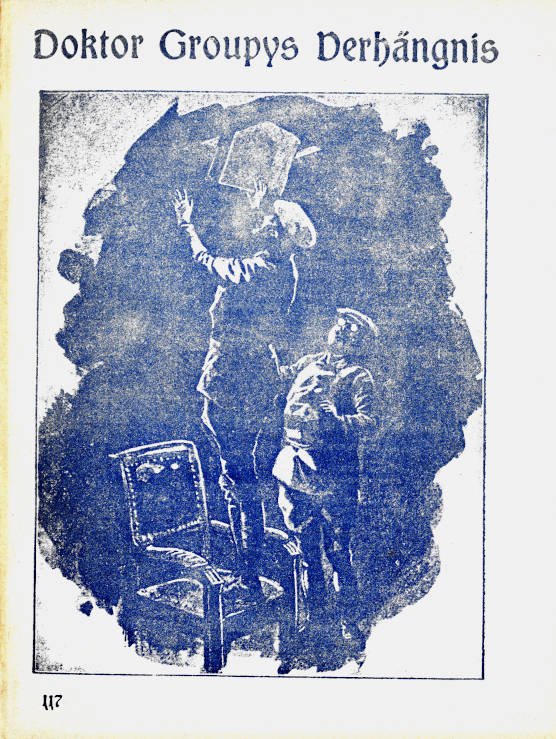
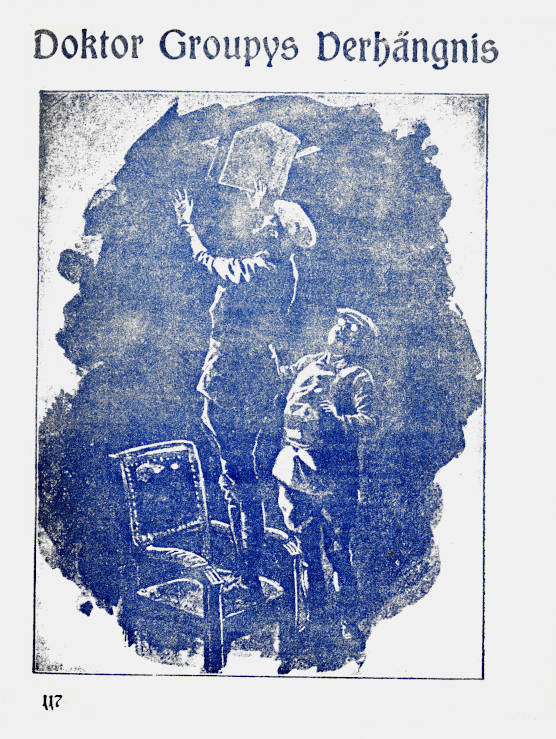
Rechtschreibfehler korrigert, Cover verbessert

Changed region(s): [[0.0, 0.0, 0.3975, 1.0], [0.4892, 0.9648, 1.0, 1.0], [0.4281, 0.9959, 0.4586, 1.0]]

diff --git a/Harald Harst/117_Doktor Groupys Verhängnis/02_Um Ehre und Weib.md b/Harald Harst/117_Doktor Groupys Verhängnis/02_Um Ehre und Weib.md
@@ -34,7 +34,7 @@ Der Diener springt herab, reißt die Tür auf …
 Drei Herren steigen aus …
 
 Der eine der Typ des vornehmen Engländers, blondbärtig,
-bärtig überschlank …
+überschlank …
 
 Der zweite etwas kleiner, straff in der Haltung, bartlos
 das Gesicht, eine kühne, messerscharfe Nase, merkwürdig graue
@@ -99,7 +99,7 @@ Und Walltour sagt zu Lady Effingham:
 »Heute mittag überraschte mich mein lieber alter Harald
 durch seinen Besuch … Das war eine Freude. — Und
 nun bringe ich Ihnen diesen prächtigen Menschen und seinen
-ebenso prächtigen Freund Schraut, Mylady. …! Zwei
+ebenso prächtigen Freund Schraut, Mylady …! Zwei
 Künstler — Künstler auf einem besonderen Gebiet …«
 
 Und zu den Anwesenden gewandt:
@@ -117,7 +117,7 @@ Lady Doris hatte sich längst gefaßt …
 Sie hieß uns beide nun willkommen, in allem die Dame
 von Welt, in allem die Aristokratin …
 
-Und doch hatte ihr Vater Niels Randerfield seine Glückslaufbabn
+Und doch hatte ihr Vater Niels Randerfield seine Glückslaufbahn
 als Goldgräber begonnen … —
 
 Zehn Minuten später — inzwischen waren noch einige
@@ -125,7 +125,7 @@ zwanzig neue Gäste erschienen — standen Harald und ich im
 Musiksalon und ließen eine übermoderne Opernouvertüre
 unsere Ohren malträtieren …
 
-Der Künstler am Flügel war ein Rasse, der Komponist
+Der Künstler am Flügel war ein Russe, der Komponist
 selbst …
 
 <@pagebreak/>
@@ -675,7 +675,7 @@ Bündel zu mir gekommen …
 
 Lag irgendwo, wo’s nach Benzin stank …
 
-Konnte nichts sehen. Nur Hören, riechen und fühlen …
+Konnte nichts sehen. Nur hören, riechen und fühlen …
 
 Roch Benzin, hörte einen Automotor leer laufen, fühlte
 mich emporgehoben, in eine Polsterecke gedrückt …
@@ -754,7 +754,7 @@ flüsterte: »Halt’s Maul, Tom! Rudere lieber!«
 
 Mithin stimmte es: Tom und Charly, die Helfershelfer
 Lord Effinghams, waren unsere Begleiter! Unsere Wächter!
-Und der Lord hatte uns Überfallen und niederschlagen lassen!
+Und der Lord hatte uns überfallen und niederschlagen lassen!
 
 Weshalb — — weshalb?
 
@@ -883,7 +883,7 @@ Englisch:
 »Ich werde Ihnen beiden die Knebel abnehmen. Ich
 habe mich davon überzeugt, daß wir drei zurzeit die einzigen
 lebenden Menschen hier auf diesem Inselchen sind. Sollten
-Sie aber um Hilfe rufen, so — Schlage ich auch Ihnen die
+Sie aber um Hilfe rufen, so — schlage ich auch Ihnen die
 Schädel ein.«
 
 Der Indianer sprach das letzte mit so vollkommener
@@ -921,7 +921,7 @@ Palast eines Lords …«
 Die dunkle Gestalt schwieg eine Weile …
 
 »Wir befinden uns in der gleichen Lage,« meinte Paracolea
-dann. »Ich werde Ihren auch die Fesseln abnehmen.
+dann. »Ich werde Ihnen auch die Fesseln abnehmen.
 Dies ist eine Nacht, wie ich viele erlebt habe, als ich noch
 drüben in Amerika, meiner Heimat, als Jäger die Sonora
 durchstreifte und das Goldgräberlager mit Fleisch versorgte.«
@@ -932,7 +932,7 @@ Dann stolzer — lauter:
 
 »Ich bin Paracolea, ein Nachkomme jenes Seminolenhäuptlings
 Oceola, den der Schriftsteller Cooper in dem
-Roman »Oceola, die untergehende Sonne der Seminolen«
+Roman »Oceola, die untergehende Sonne der Seminolen<@refnote 2/>«
 verewigt hat …«
 
 Er zerschnitt unsere Stricke …
@@ -974,7 +974,7 @@ Das trockene Holz erzeugte eine ungeheure Glut, die durch
 die offene Ofentür in breiter Bahn in die Stube drang.
 
 Vor dem Ofen lag ein Fellteppich. Paracolea, der einen
-Sportanzug trug, diesen Sitz und Stoff durch das Unwetter
+Sportanzug trug, dessen Sitz und Stoff durch das Unwetter
 genau so gelitten hatten wie unsere Gesellschaftsanzüge, ließ
 sich jetzt mit untergeschlagenen Beinen gleichfalls vor dem
 Ofen nieder, legte die Arme auf die Knie und starrte unverwandt
@@ -1022,7 +1022,7 @@ Der Seminole schwieg und starrte in die Glut.
 Wir beide verließen das Häuschen.
 
 Draußen atmete ich erleichtert auf, zumal der Regenguß
-vorüber war und ein frischer, angenehmer Wind, die Nachtklänge
+vorüber war und ein frischer, angenehmer Wind, die Nachklänge
 des Sturmes, uns umwehte.
 
 Dunkle Wolkenmassen flogen noch über das nächtliche
@@ -1036,7 +1036,7 @@ hinabeilten …
 
 »Das hängt davon ab, wer dort naht …«
 
-Und er zeigte geradeaus aus die finstere Fläche der Harwich-Bucht,
+Und er zeigte geradeaus auf die finstere Fläche der Harwich-Bucht,
 wo die Lichter eines kleinen Fahrzeugs blitzten
 und rasch näherkamen.
 
@@ -1086,7 +1086,7 @@ waren kunstlose Verbände aus Zeugfetzen geschlungen …
 »Sie leben, sind nur bewußtlos … — Ah — es sind Ausländer,
 beide … Da — dieser Schädelbau und dieses
 brandrote Haar sind nur in Irland anzutreffen, und die
-Hirndecke eines Iren konsultiert an Festigkeit mit der eines
+Hirndecke eines Iren konkurriert an Festigkeit mit der eines
 Negers. — Der Seminole glaubt, die beiden erschlagen zu
 haben, hat aber trotzdem, weil noch Leben in ihnen war die
 Verletzungen verbunden. Ich wußte, daß dieser Paracolea
@@ -1193,7 +1193,7 @@ sich in einen Stuhl und sagte ironisch:
 mich mit Ellen Gybourg traf. Sie waren’s, der in seiner
 übergroßen Liebe für Doris, meine Gattin« — und da
 änderte sich sein Ton, wurde weich und wehmütig — »sich
-von ihr verleiten hießen, Ellen … zu ermorden, weil Doris
+von ihr verleiten ließen, Ellen … zu ermorden, weil Doris
 in blinder Eifersucht glaubte, daß intime Beziehungen zwischen
 mir und jener Frau beständen! — Paracolea, Sie
 ahnen nicht, *was* Sie mir angetan haben! Nie hätten Sie
@@ -1202,7 +1202,7 @@ einst nahegestanden, heimlich zusammenkam, und dies nur
 <@pagebreak/>
 deshalb, um die letzten Beweise einer wilden Vergangenheit
 vernichten zu können, um von Ellen die Herausgabe
-meine Bildes zu fordern, das ich ihr einst mit einer Widmung
+meines Bildes zu fordern, das ich ihr einst mit einer Widmung
 geschenkt hatte! Nur deshalb wagte ich diese Zusammenkünfte,
 suchte den blinden Haß dieses Weibes, das
 sich mir einst geradezu aufgedrängt und das dann nicht hatte
@@ -1215,7 +1215,7 @@ das, was zwischen ihr und mir einst gewesen …!! Ein
 unausgeglichener Charakter, eine Frau, die allzu gern Lady
 Effingham werden wollte, die völlig unter dem Einfluß ihrer
 intriganten Mutter stand, eines Weibes, halb Abenteurerin,
-halb Horcherin, halb Dirne …!«
+halb Spielerin, halb Dirne …!«
 
 Paracoleas dunkle Augen hingen wie gebannt an des
 Lords nunmehr von Bart und Maske befreiten Gesicht …
@@ -1390,7 +1390,7 @@ dreißig Jahre früher, — da wäre die Geschichte Ihnen wohl
 
 Harst stieß lachend die Tür des Häuschens auf …
 
-Und schmunzelnd betrat ich hinter im das hell erleuchtete
+Und schmunzelnd betrat ich hinter ihm das hell erleuchtete
 Stübchen, während old Tobby neben mir brummte: »Da
 gibt’s nichts zu lachen! Vor dreißig Jahren konnt’ ich einen
 Ochsen mit der Faust niederschlagen — auch zwei, wenn
@@ -1404,9 +1404,9 @@ hervor erschienen Lady Doris Effingham und zwei
 Männer in Chauffeurtracht, alle drei aber mit langen
 Gummimänteln, die vor Nässe trieften …
 
-Lady Doris wär’s, die uns angerufen hatte …
+Lady Doris war’s, die uns angerufen hatte …
 
-»Zwingen Sie nicht nicht, Mister Harst, Gewalt zu gebrauchen!!«
+»Zwingen Sie mich nicht, Mister Harst, Gewalt zu gebrauchen!!«
 
 Und sie deutete auf ihre beiden Begleiter …
 
@@ -1472,7 +1472,7 @@ wie er, von einem Dienstmann mit einer großen Modellpuppe
 gefolgt, das Haus Nr. 15 betrat.
 
 Daß Gybourg und ich mit äußerster Ungeduld der entscheidenden
-Stunde entgegensahen, wird Jeder begreifen.
+Stunde entgegensahen, wird jeder begreifen.
 Endlich — endlich dann … fünf Minuten vor elf …
 
 Da fuhr auch schon vor Nr. 15 ein elegantes Auto vor,
@@ -1553,7 +1553,7 @@ war — —
 Ich habe nur noch hinzuzufügen, daß Paracolea jetzt
 Schloßverwalter bei Lord Effingham ist und daß Lady
 <@pagebreak/>
-Doris und letztens zur Taufe des Stammhalters eingeladen
+Doris uns letztens zur Taufe des Stammhalters eingeladen
 hat. Wir werden dann fraglos ein paar vergnügte Tage in
 England verleben. —
 

diff --git a/Harald Harst/117_Doktor Groupys Verhängnis/01_Doktor Groupys Verhängnis.md b/Harald Harst/117_Doktor Groupys Verhängnis/01_Doktor Groupys Verhängnis.md
@@ -73,7 +73,7 @@ ein Zettel gebunden …
 Wir lasen den Zettel — eine energische, schmucklose Handschrift:
 
 > »Mister Harst, falls Sie versprechen, mich nicht etwa
-der Polizei auszuliefern, will ich Ahnen meine traurige
+der Polizei auszuliefern, will ich Ihnen meine traurige
 Geschichte selbst auf die Gefahr hin, daß Sie mir nicht
 glauben, erzählen, und Sie dann vielleicht bitten, mir zu
 helfen. — Sollten Sie diese Zusicherung geben wollen, so
@@ -89,7 +89,7 @@ Groupy beim Hineinklettern.
 
 Groupy stand vor uns …
 
-Er war legt nicht mehr verkleidet …
+Er war jetzt nicht mehr verkleidet …
 
 Ein schlanker Mann mit bartlosem, klugem Gesicht und
 lebhaften Augen, etwa fünfundvierzig Jahre alt …
@@ -177,7 +177,7 @@ nur ich!!
 Und da — da floh ich, schlug den Detektivinspektor Colley
 nieder und rannte auf die Straße, entwischte …«
 
-Er keuchte, zitierte …
+Er keuchte, zitterte …
 
 Hob nun den Blick …
 
@@ -481,7 +481,7 @@ bildete den Anlaß zu jenen Eifersuchtsszenen. Ich glaubte
 Ellen nicht, daß sie den Menschen nicht näher kenne. Zwar
 versöhnten wir uns, doch die steten Zweifel an ihrer Aufrichtigkeit
 beschworen stets aufs neue häßliche Auftritte
-herauf. — Ich zertrümmerte Ellens Rad und Verbot ihr, das
+herauf. — Ich zertrümmerte Ellens Rad und verbot ihr, das
 Haus ohne mich zu verlassen … Und dann — dann versöhnten
 wir uns wiederum, bis mein nie zur Ruhe kommendes
 Mißtrauen mich verleitete, Ellens Sachen aus ihrer
@@ -526,7 +526,7 @@ Photographen ausradiert und auch von der über dem Stempel
 stehenden, mit Tinte geschriebenen Widmung war nur
 noch übriggeblieben ein
 
-> \i und ein a.
+> i und ein a.
 
 Harald legte Briefumschlag und Bild auf den Tisch …
 fragte:
@@ -594,7 +594,7 @@ Sie speisten auf ihrem Zimmer zu Abend, und dann,
 als der alte, behäbige Kellner das Geschirr wieder abgeräumt
 hatte, rief der eine der Holländer den Diener herein.
 
-»So«,« sagte Harald zu Doktor Gybourg, »so, nun sind
+»So,« sagte Harald zu Doktor Gybourg, »so, nun sind
 wir unter uns, Doktor. Und nun zeigen Sie mir mal von
 hier aus die Anordnung der Räume Ihrer früheren Wohnung.
 — Schalte das Licht aus, mein Alter … Wir wollen
@@ -824,7 +824,7 @@ Das Fenster flog auf …
 
 Harst schritt vorwärts …
 
-Da rief der Alte und entgegen:
+Da rief der Alte uns entgegen:
 
 »He — es ist verboten, die Insel zu betreten!«
 
@@ -872,7 +872,7 @@ Harald mich vor.
 »Ja — dann können wir ja nun gehen,« meinte Tobby
 bedächtig. »Warten Sie, ich komme …«
 
-<h2>4, Kapitel.</h2>
+<h2>4. Kapitel.</h2>
 <h3>Verse am Fenster.</h3>
 
 Er kam, hatte einen Ölhut über den Schädel gezogen,
@@ -915,7 +915,7 @@ lehnte sie an die schroffe Felswand und stieg empor …
 Acht Meter über dem Boden bildete die Steinwand
 eine schmale Terrasse, die allmählich, ein gangbarer Pfad,
 sich höherzog bis zu einem durch die Krone einer prächtigen
-Eiche verdecken Felsloche …
+Eiche verdeckten Felsloche …
 
 »So,« sagte Tobby, »dies ist nun der Eingang zu der
 Höhlenwohnung, Mister Gybourg … Während des Krieges
@@ -945,7 +945,7 @@ und — — einer Sende- und Empfangsstation für Funkentelegraphie!
 —
 
 Wollte ich diese Atelierwohnung im einzelnen beschreiben,
-dann müßte ist dazu drei Seiten Manuskript verwenden,
+dann müßte ich dazu drei Seiten Manuskript verwenden,
 und das ginge nicht, das würde den Lauf der Handlung
 zu sehr hemmen.
 
@@ -1023,7 +1023,7 @@ Er hielt inne …
 Dort rechts der große Tisch, darüber die Schaltbretter,
 — der Tisch mit den Radioapparaten …
 
-Und — von dort der kam ein schnarrendes Ticken …
+Und — von dort her kam ein schnarrendes Ticken …
 
 Dort lief ein Papierstreifen von einer Rolle ab — ein
 schmaler Streifen — das Band eines Fernschreibers …
@@ -1122,8 +1122,8 @@ hervor …
 
 »Schuft, Betrüger!!« brüllte er — und eine Stimme
 hatte der Seebär, die nicht nach Musik klang … »Bleibt, wo
-Ihr seid!! Bleibt sehen, rührt Euch nicht, bis mein Tränkchen
-wirkt! Ihr dachtet wohl, ich hätte ich meinem Häuschen
+Ihr seid!! Bleibt stehen, rührt Euch nicht, bis mein Tränkchen
+wirkt! Ihr dachtet wohl, ich hätte in meinem Häuschen
 keinen Apparat!! Na — Ihr irrt Euch!!«
 
 Harst — mein alter Harald Harst war in dieser kritischen
@@ -1193,7 +1193,7 @@ irgend jemand hierher kommt, der Dir lästig ist, dann
 brauchst Du ihm nur einen Whisky aus dieser Flasche anzubieten,
 und nach fünf Minuten schläft der Betreffende fest
 wie ein Murmeltier und wird auch vor zwölf Stunden nicht
-erwachen.« — Ich hab die Flasche nie zu benutzen brauchen.
+erwachen.« — Ich hab’ die Flasche nie zu benutzen brauchen.
 Aber Mylord ließ sie sich zuweilen geben, wenn — wenn —«
 
 Er verstummte und blickte hilflos zu Boden …
@@ -1250,7 +1250,7 @@ des Senders.
 
 Dann verließen wir die Grotte.
 
-Nach genau dasselbe tat Harald in Tobbys Häuschen.
+Und genau dasselbe tat Harald in Tobbys Häuschen.
 
 <@pagebreak/>
 
@@ -1335,7 +1335,7 @@ Tobby war plötzlich verschwunden, als aus dem Ende
 des Schachtes eine Leiter weiter nach unten führte …
 
 Harsts Taschenlampe sandte ihren grellen Lichtkegel durch
-eine kaum drei Meter Breite, langgestreckte Felshöhle hin —
+eine kaum drei Meter breite, langgestreckte Felshöhle hin —
 hierhin, dorthin …
 
 Harst sprang von der Leiter auf den harten Granitboden,
@@ -1445,7 +1445,7 @@ Und — hatte die Arme hochgereckt, hatte eine quadratische
 Steintafel der Decke wie eine Falltür nach unten klappen
 lassen — eine Platte von quadratischer Form …
 
-Und von oben her fiel tun wieder Tageslicht durch eine
+Und von oben her fiel nun wieder Tageslicht durch eine
 glatte, gerade Spalte zu uns herein — durch eine Spalte, in
 der — eine Leiter hing.
 

diff --git a/Harald Harst/117_Doktor Groupys Verhängnis/03_WeitereAusgaben_175_266.md b/Harald Harst/117_Doktor Groupys Verhängnis/03_WeitereAusgaben_175_266.md
@@ -3,7 +3,7 @@
 <div style="font-size: xx-large; text-align: center;">Weitere Ausgaben</div>
 <div style="font-size: large; text-align: center;">unserer Harst-Abenteuer</div>
 
-<table style="table-layout:fixed; font-size: x-small;">
+<table style="table-layout:fixed; font-size: xx-small;">
 <tr><td style="width: 50%">175. Die Taubenzüchter.</td><td style="width: 50%">221. Der große Schwindlerkonzern.</td></tr>
 <tr><td>176. Harsts schwerstes Problem.         </td><td>222. Bedingt begnadigt.</td></tr>
 <tr><td>177. Die Geschichte eines Irrsinnigen.  </td><td>223. Die Göttin der Wyndhiaberge.</td></tr>
@@ -32,9 +32,9 @@
 <tr><td>200. Die Hand Gottes.                   </td><td>246. Der Kalender der Murvays.</td></tr>
 <tr><td>201. Der leere Zettel.                  </td><td>247. Kastell Mondalar.</td></tr>
 <tr><td>202. Die Zigarren des Mister Goulderlay.</td><td>248. Das Gasthaus zur weißen Ratte.</td></tr>
-<tr><td>203.                                    </td><td>249. Die goldene Glocke.</td></tr>
+<tr><td>203. Henny Garlans Zauberschloß.        </td><td>249. Die goldene Glocke.</td></tr>
 <tr><td>204. Der Mann m. den Mäusen.            </td><td>250. Der brennenden Wald.</td></tr>
-<tr><td>205.                                    </td><td>251. Irinas Verhängnis.</td></tr>
+<tr><td>205. Drei Löwen.                        </td><td>251. Irinas Verhängnis.</td></tr>
 <tr><td>206. Das Höllentor von Adagaru.         </td><td>252. Die Hexe von Malvetta.</td></tr>
 <tr><td>207. Dschungelgeheimnisse.              </td><td>253. Chuna Dangi, das weiße Rätsel.</td></tr>
 <tr><td>208. Singh Gabru, der Pirat.            </td><td>254. Der Schädel mit den Goldzähnen.</td></tr>

diff --git a/Harald Harst/117_Doktor Groupys Verhängnis/99_footnotes.md b/Harald Harst/117_Doktor Groupys Verhängnis/99_footnotes.md
@@ -2,3 +2,4 @@
 
 <@footnote 1 "01_Doktor Groupys Verhängnis.md">Marmaty, Marmarty, beide Schreibweisen vorhanden. Einheitlich auf Marmarty geändert.</@footnote>
 
+<@footnote 2 "02_Um Ehre und Weib.md">Vermutlich meint Kabel »Oceola die <em>auf</em>gehende Sonne der der Seminolen-Indianer« von <em>Ernst Leistner</em>.</@footnote>
